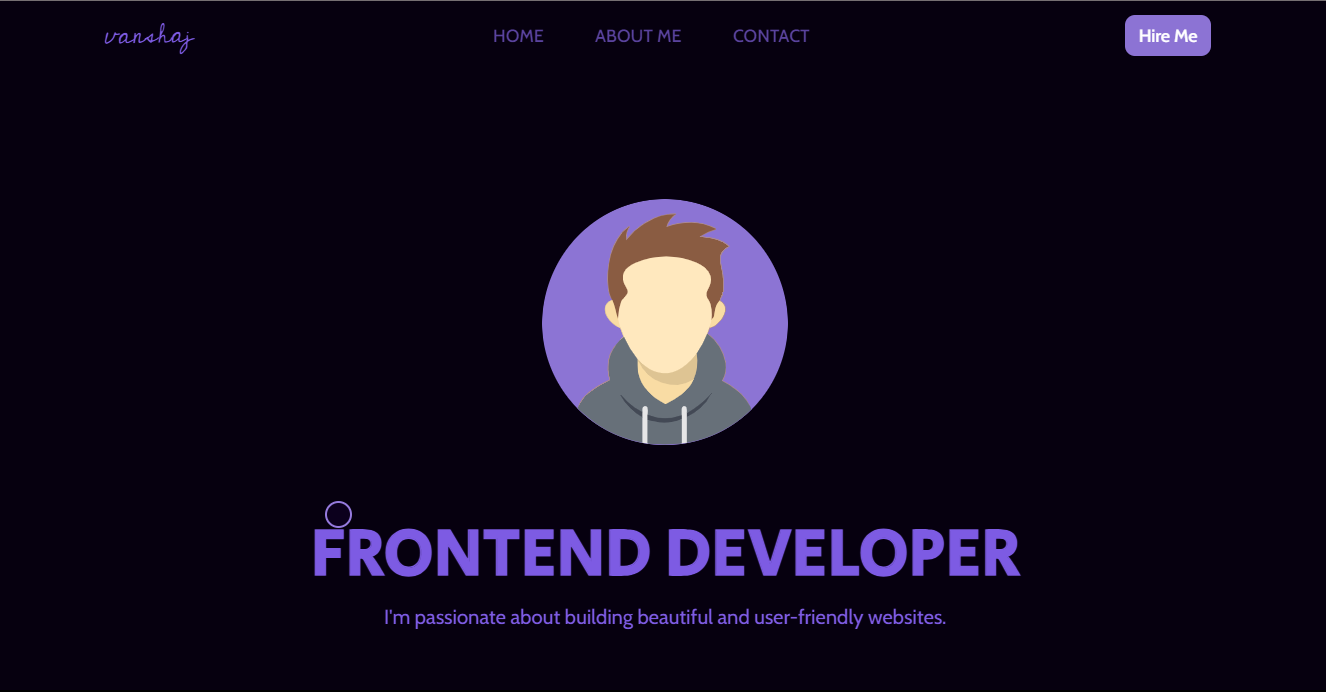
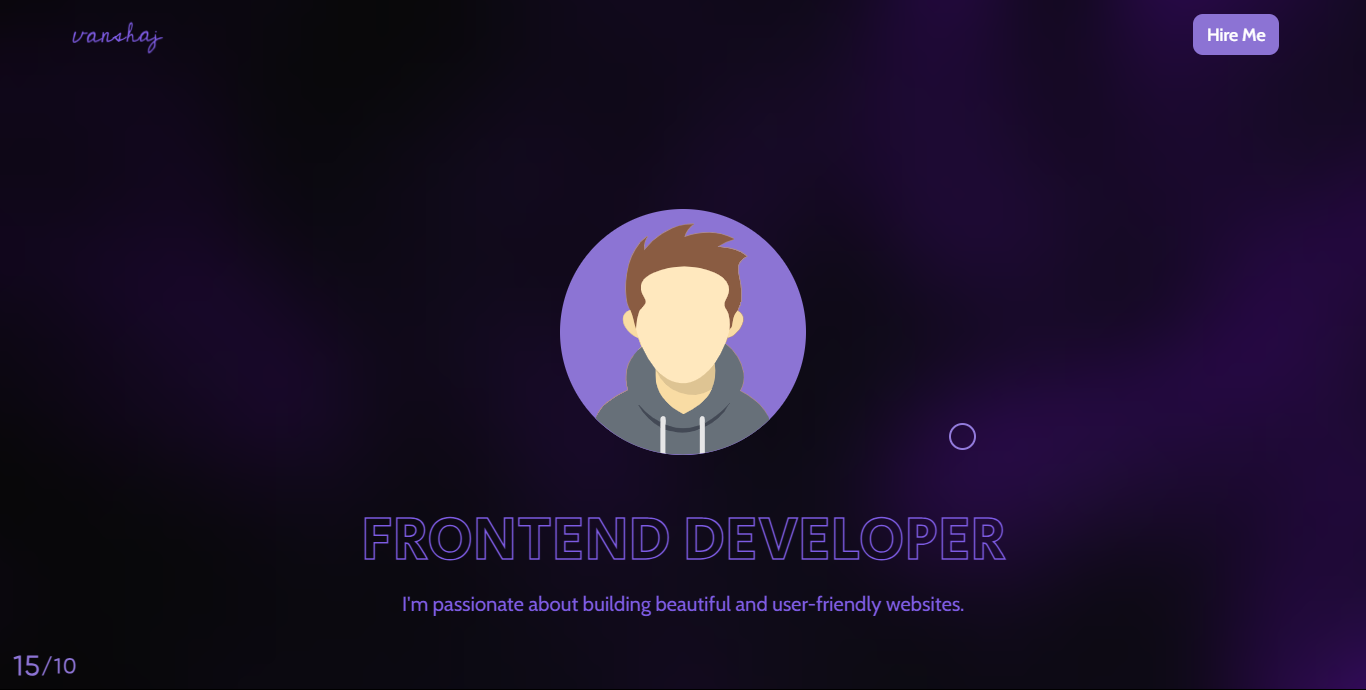
Add files via upload

diff --git a/style.css b/style.css
@@ -4,7 +4,6 @@
 
 :root {
     --bgcolor: #06000f;
-    /* --bgcolor : #fff; */
     --dark-gray: #a1a1a116;
 }
 
@@ -31,8 +30,7 @@
     place-content: center
 }
 
-.desk-right-nav a,
-.menu li ul a {
+.desk-right-nav a{
     font-family: cabin;
     text-decoration: none
 }
@@ -47,7 +45,6 @@
 
 .about-me,
 .banner h1,
-.menu li ul,
 .section,
 .skills {
     position: relative
@@ -145,8 +142,6 @@ html {
 }
 
 .left-nav,
-.menu,
-.menu li,
 .top {
     height: 100%
 }
@@ -178,8 +173,7 @@ html {
     padding: 0 6%;
 }
 
-.banner,
-.menu li {
+.banner{
     align-items: center
 }
 
@@ -203,8 +197,6 @@ html {
 
 .banner,
 .image,
-.menu li,
-.menu li ul a,
 .new {
     display: flex
 }
@@ -216,37 +208,13 @@ html {
     background-color: transparent;
 }
 
-.menu {
-    width: 30%
-}
-
 .banner,
-.menu li,
 .new,
 .section,
 .section-2 {
     width: 100%
 }
 
-.menu li {
-    justify-content: space-evenly
-}
-
-.menu li ul {
-    padding: 0 5px
-}
-
-
-.menu li ul a {
-    justify-content: center;
-    font-size: 1.3vw;
-    color: #5a439e;
-    transition: all .2s;
-}
-
-.menu li ul a:hover {
-    color: #8c73d4;
-}
 
 .section img {
     height: 15vw;
@@ -657,32 +625,33 @@ html {
     place-content: center;
 }
 
-.contain>div:nth-child(2) {
+.contain>div:last-child {
     width: 100%;
     height: 87vh;
     display: flex;
     flex-wrap: wrap;
-    justify-content: space-evenly;
+    justify-content: start;
     align-items: start;
     padding: 2vh 0;
 }
 
 .project {
-    height: 35vh;
-    width: 27%;
-    padding: .8vh;
-    background: #26262664;
+    height: 60vh;
+    width: 100vw;
+    padding: 2vh;
     border-radius: 15px;
+    display: flex;
+    justify-content: space-evenly;
 }
 
 
 .thumbnail {
-    height: 83%;
-    width: 100%;
+    height: 50vh;
+    width: 48vw;
     margin-bottom: .8vh;
     border-radius: 10px;
     overflow: hidden;
-    background: rgba(0, 0, 0, 0.43);
+    /* background: white; */
 }
 
 .thumbnail img {
@@ -690,36 +659,45 @@ html {
     width: 100%;
     object-fit: cover;
     display: inline;
-    object-position: top;
-    transition: all .2s ease;
-}
-
-.thumbnail img:hover {
-    transform: scale(1.1);
+    object-position: left;
+    transform: scale(1.01);
 }
 
 .desc {
-    height: 15%;
-    width: 100%;
     border-radius: 10px;
     display: flex;
-    align-items: center;
+    align-items: start;
+    justify-content: center;
+    flex-direction: column;
+    padding: 5vh;
+    height: 50vh;
+    text-align: left;
+    width: 40vw;
 }
 
-.desc>h3>a {
-    font-family: 'gilroy light';
-    font-weight: 500;
-    font-size: 1.5vw;
-    background: #00000024;
+
+.desc>a {
     text-decoration: none;
-    padding: 2px 5px;
-    border-radius: 5px;
-    color: rgb(238, 238, 238);
-    transition: all ease .2s;
+    white-space: nowrap;
+    /* padding: 0 15%; */
 }
 
-.desc>h3>a:hover {
-    color: #8c73d4;
+.desc>a>h2{
+    color: whitesmoke;
+    font-family: 'andika';
+    letter-spacing: 0.5px;
+    font-weight: 900;
+    font-size: 3.5vw;
+    position: relative;
+}
+
+.desc>p{
+    color: whitesmoke;
+    font-family: gilroy;
+    line-height: 3vw;
+    font-size: calc(3vw / 1.818);
+    letter-spacing: -.1px;
+    font-weight: 500;
 }
 
 .date {
@@ -749,7 +727,7 @@ html {
 
 .query {
     width: 70vw;
-    height: 70vh;
+    height: 100vh;
     margin: 5vh 15vw;
     display: flex;
     align-items: center;
@@ -757,7 +735,7 @@ html {
 }
 
 .form {
-    height: 100%;
+    /* height: 100%; */
     width: 50%;
     display: grid;
     place-content: center;

diff --git a/index.html b/index.html
@@ -22,13 +22,6 @@
                     <img id="click" class="img" src="./images/menu.svg" alt="">
                     <img id="unclick" class="img" src="./images/close.png" alt="">
                 </div>
-                <!-- <div class="menu">
-                    <li>
-                        <ul><a href="#">HOME</a></ul>
-                        <ul><a href="#about">ABOUT ME</a></ul>
-                        <ul><a href="">CONTACT</a></ul>
-                    </li>
-                </div> -->
                 <div class="desk-right-nav" style="cursor: auto;"><a target="_blank"
                         href="https://freelancer.in/u/singhvanshaj09">Hire Me</a></div>
             </div>
@@ -126,57 +119,9 @@
                             <img src="./images/thumbnail.png" alt="">
                         </div>
                         <div class="desc">
-                            <h3><a href="./index.html">Personal website</a></h3>
-                        </div>
-                    </div>
-                    <div class="project">
-                        <div class="thumbnail">
-                            <!-- <img src="" alt="not made yet"> -->
-                        </div>
-                        <div class="desc">
-                            <h3>
-                                <a href="">not made yet</a>
-                            </h3>
-                        </div>
-                    </div>
-                    <div class="project">
-                        <div class="thumbnail">
-                            <!-- <img src="" alt="not made yet"> -->
-                        </div>
-                        <div class="desc">
-                            <h3>
-                                <a href="">not made yet</a>
-                            </h3>
-                        </div>
-                    </div>
-                    <div class="project">
-                        <div class="thumbnail">
-                            <!-- <img src="" alt="not made yet"> -->
-                        </div>
-                        <div class="desc">
-                            <h3>
-                                <a href="">not made yet</a>
-                            </h3>
-                        </div>
-                    </div>
-                    <div class="project">
-                        <div class="thumbnail">
-                            <!-- <img src="" alt="not made yet"> -->
-                        </div>
-                        <div class="desc">
-                            <h3>
-                                <a href="">not made yet</a>
-                            </h3>
-                        </div>
-                    </div>
-                    <div class="project">
-                        <div class="thumbnail">
-                            <!-- <img src="" alt="not made yet"> -->
-                        </div>
-                        <div class="desc">
-                            <h3>
-                                <a href="">not made yet</a>
-                            </h3>
+                            <a href="./index.html"><h2>Personal Website</h2></a>
+                            <p>Portfolio website made with pure HTML, CSS, JavaScript, GSAP, and Locomotive JS
+                                This portfolio website is a showcase of my skills and experience</p>
                         </div>
                     </div>
                 </div>
